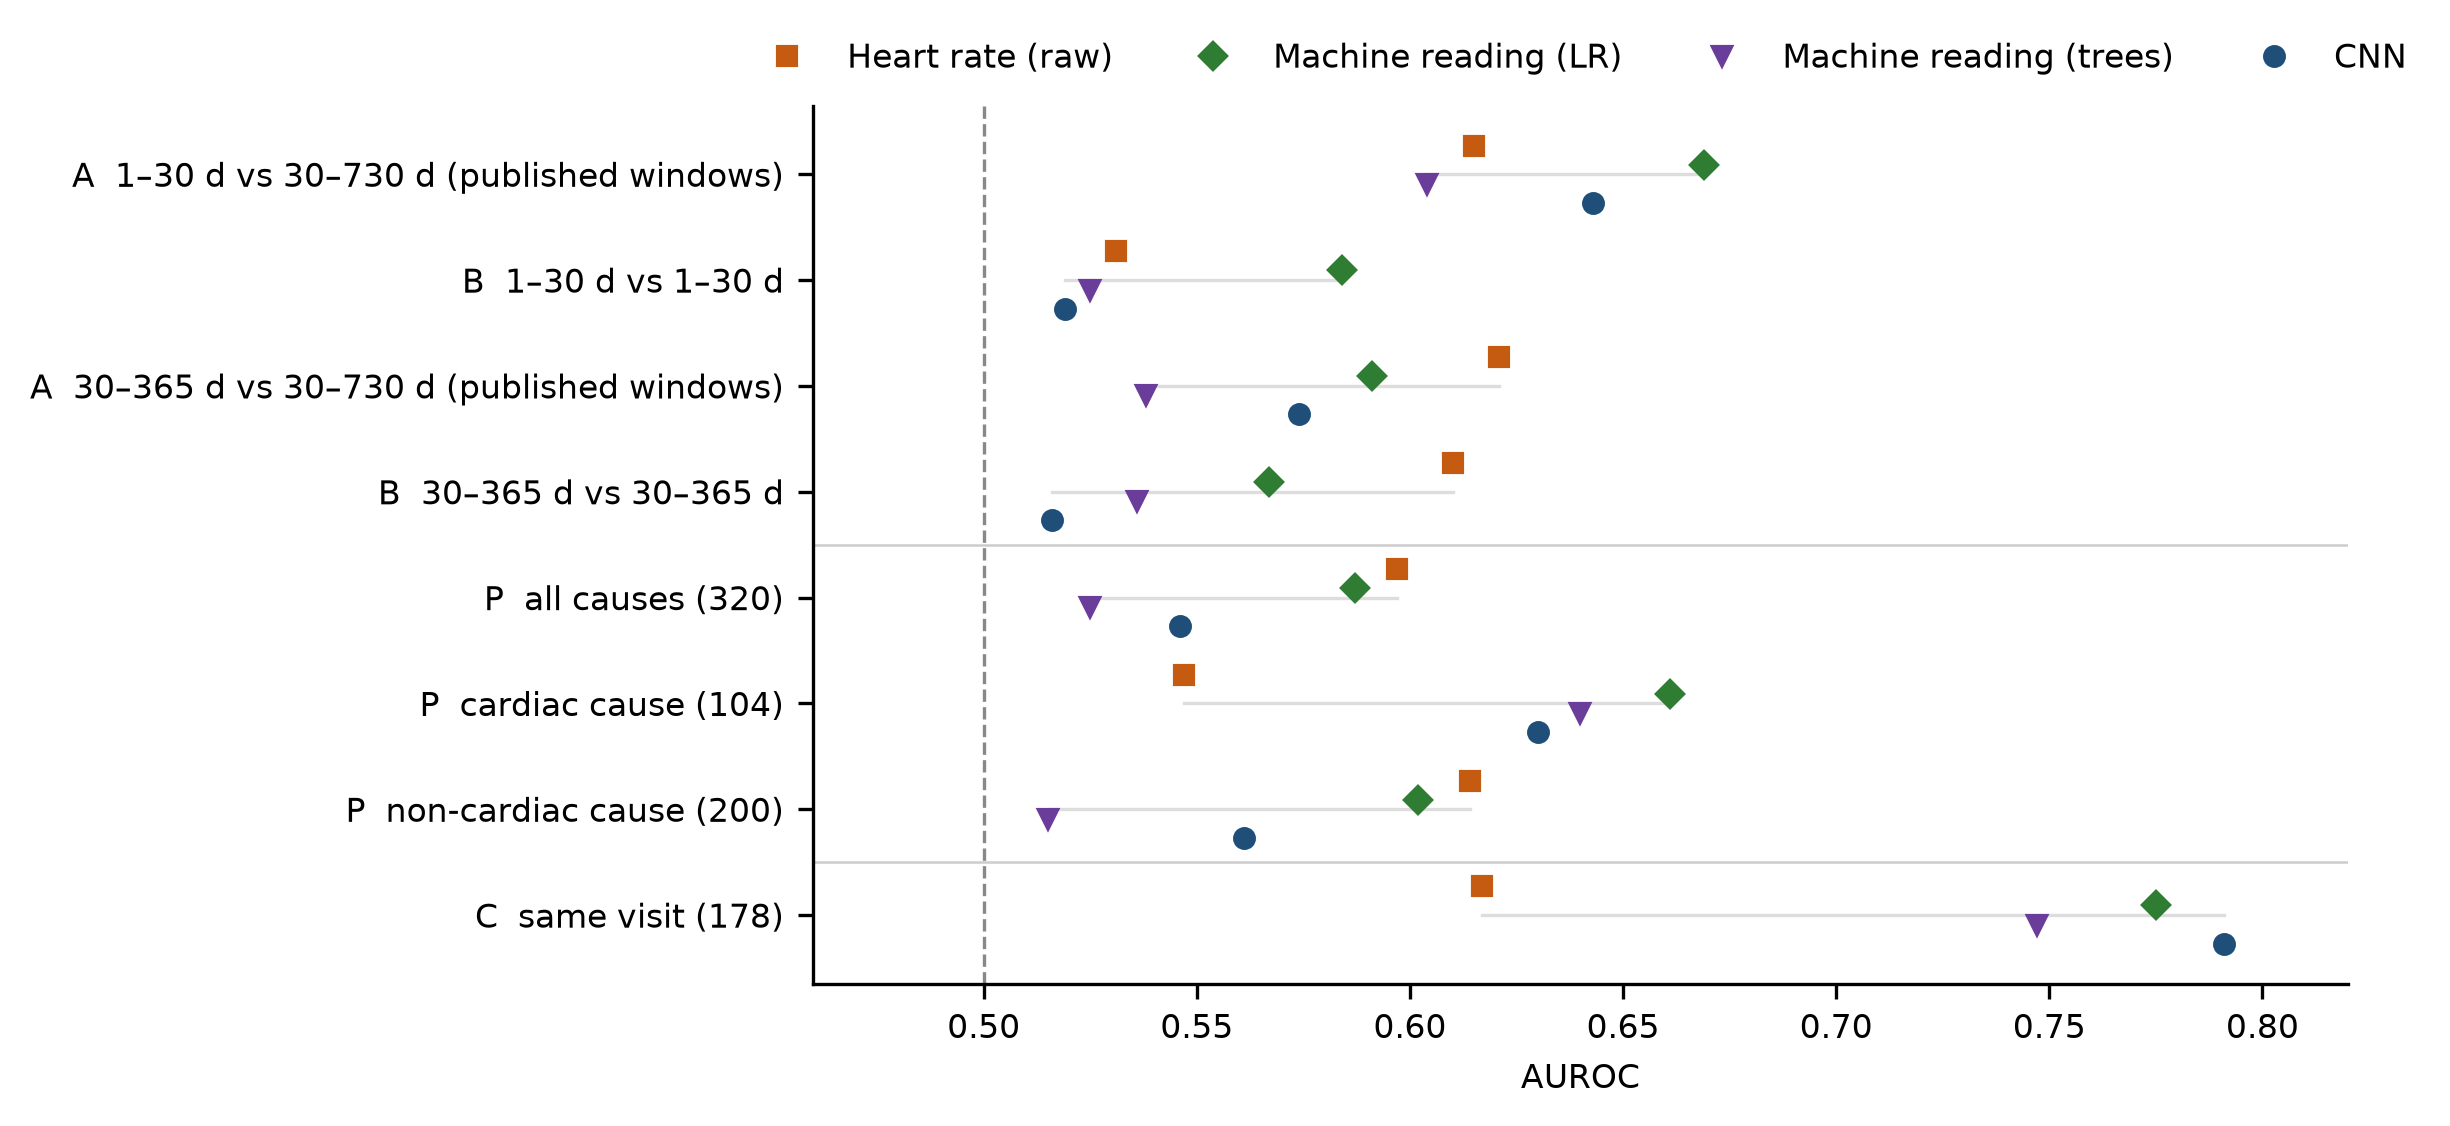
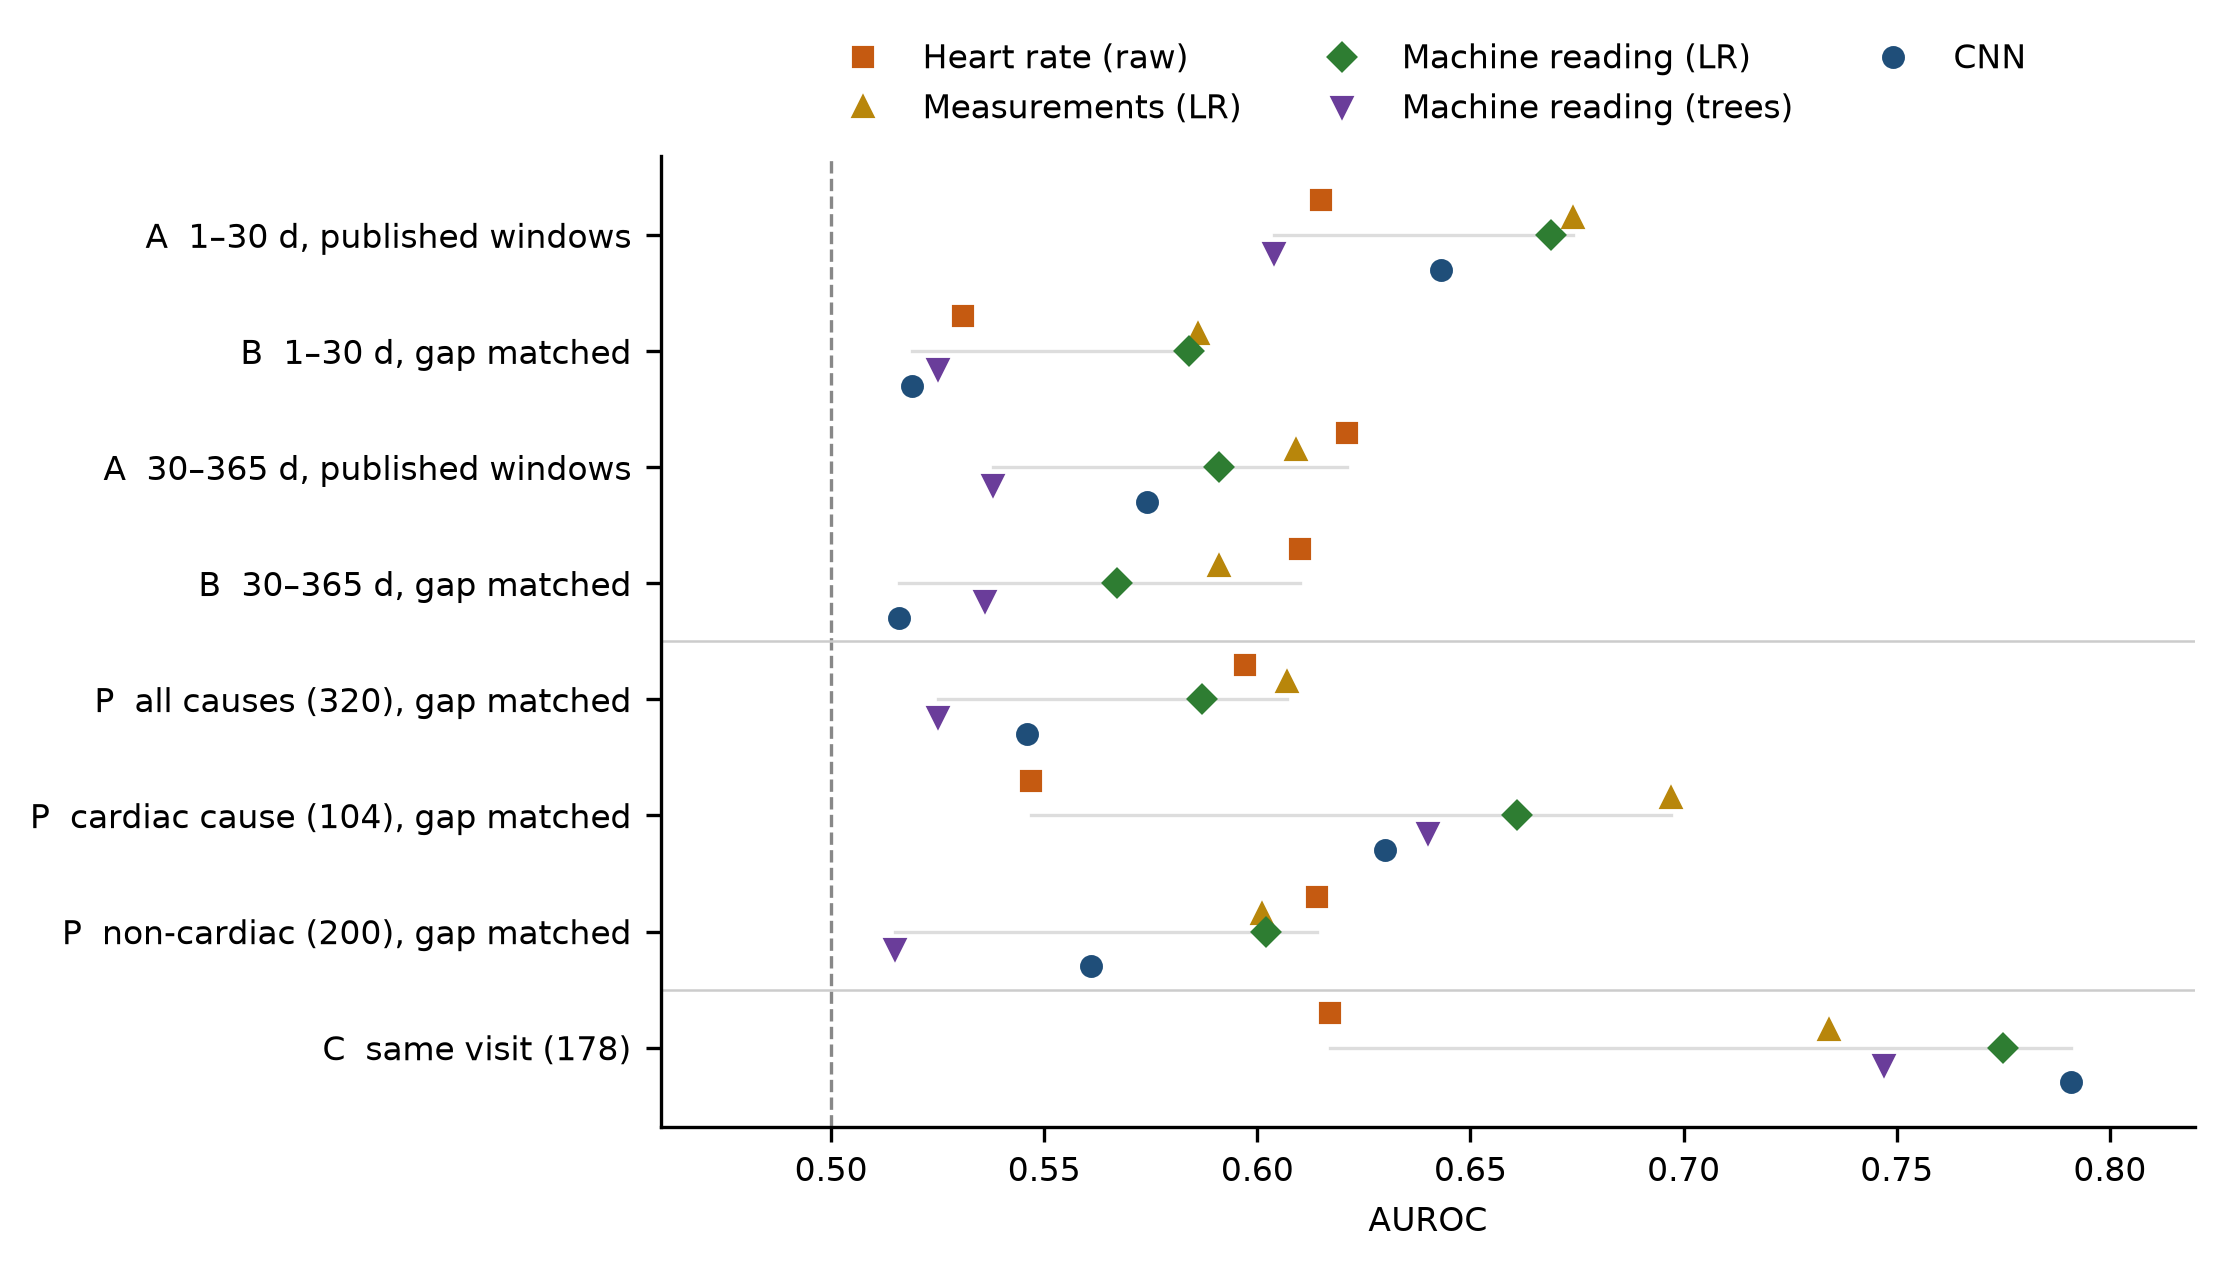
v1.2.1: paired comparator-minus-CNN tests and A/B window contrast; Figure 2 with measurements (LR)

diff --git a/analysis/19_berpasangan.py b/analysis/19_berpasangan.py
@@ -1,0 +1,188 @@
+"""Nightingale arrest-ntuh-ecg — uji berpasangan untuk telaah panel JIKI 28 Oktober 2026
+(Riset/EKG/Telaah/2026-10-28-Arrest-JIKI/report.md).
+
+Keberatan yang diuji:
+  1. "matching cut 1-30 days but not 30-365" bersandar pada satu benih dan dua IK terpisah ->
+     rancangan A/B (pencocokan 04, benih 0-2): selisih A - B per jendela, digabung atas benih, dan
+     kontras langsung (A - B | 1-30) - (A - B | 30-365); laju ventrikel mentah dan pengukuran 12SL (LR);
+     bootstrap pasien, tiap rancangan diambil ulang sendiri.
+  2. judul "heart rate outperforms a CNN" tanpa uji berpasangan -> CNN dilatih ulang (2 ulangan per benih,
+     seperti 13) pada rancangan P semua sebab dan bukan jantung (pencocokan 09/10, set cocokan) dan pada
+     rancangan B (1-30, 30-365; pencocokan 04). Selisih laju - CNN, pengukuran LR - CNN, mesin LR - CNN
+     pada sampel yang sama; tiap tarikan bootstrap mengambil ulang set (P) atau pasien (B) dan memilih
+     satu ulangan latih CNN secara acak, sehingga ragam antarulangan ikut masuk; digabung atas benih.
+
+CPU. Hanya agregat. Pakai: python -u 19_berpasangan.py > berpasangan.log
+"""
+import importlib.util
+import os
+
+import numpy as np
+from sklearn.metrics import roc_auc_score
+from sklearn.model_selection import StratifiedGroupKFold
+
+
+def _muat_modul(nama, berkas):
+    spek = importlib.util.spec_from_file_location(nama, os.path.join(os.path.dirname(__file__), berkas))
+    m = importlib.util.module_from_spec(spek)
+    spek.loader.exec_module(m)
+    return m
+
+
+c02 = _muat_modul('c02', '02_cnn_arrest.py')
+c03 = _muat_modul('c03', '03_cnn_kunjungan.py')
+c04 = _muat_modul('c04', '04_replikasi.py')
+c06 = _muat_modul('c06', '06_revisi.py')
+c09 = _muat_modul('c09', '09_uji_sebab.py')
+c10 = _muat_modul('c10', '10_telaah_lanjut.py')
+BENIH = range(3)
+ULANG_CNN = 2
+N_BOOT = 1000
+rng = np.random.default_rng(20261031)
+c10.rng = rng
+LAJU, UKUR, MESIN = 'laju ventrikel (mentah)', 'pengukuran 12SL (LR)', 'pembacaan mesin (LR)'
+
+
+def laju(S):
+    v = S.ventricular_rate.to_numpy(float)
+    return np.where(np.isnan(v), np.nanmedian(v), v)
+
+
+def pembanding(S, y, g):
+    U = S[c03.UKURAN].to_numpy(float)
+    M = np.column_stack([S[list(c06.BENDERA)].to_numpy(float), U])
+    return {LAJU: laju(S), UKUR: c06.oof_lr_logit(U, y, g), MESIN: c06.oof_lr_logit(M, y, g)}
+
+
+def cnn_ulang(X, y, g):
+    ps = []
+    for b in range(ULANG_CNN):
+        p = np.zeros(len(y))
+        for tr, te in StratifiedGroupKFold(5, shuffle=True, random_state=b).split(np.zeros(len(y)), y, g):
+            p[te] = c02.latih_prediksi(X[tr], y[tr], X[te], b)
+        ps.append(p)
+    return ps
+
+
+def unit(u):
+    us = np.unique(u)
+    return us, {k: np.where(u == k)[0] for k in us}
+
+
+def boot(y, u, f, n=N_BOOT):
+    """f(ix) dihitung pada tiap tarikan unit (set atau pasien) dengan pengembalian."""
+    us, anggota = unit(u)
+    return np.array([f(np.concatenate([anggota[k] for k in rng.choice(us, len(us))])) for _ in range(n)])
+
+
+def beda_cnn(y, u, pa, ps):
+    """AUROC(pa) - AUROC(CNN), CNN = satu ulangan latih acak per tarikan."""
+    def f(ix):
+        pc = ps[rng.integers(len(ps))]
+        return roc_auc_score(y[ix], pa[ix]) - roc_auc_score(y[ix], pc[ix])
+    return boot(y, u, f)
+
+
+def ab_data():
+    D = c04.tandai_kasus(c02.muat())
+    pre = D[D.ecg_timetag.isin(['[0]pre', 'pre'])].reset_index(drop=True)
+    n0 = len(pre)
+    pre = pre.merge(c03.ukuran(), on='ecg_id', how='left').merge(c06.pernyataan(), on='ecg_id', how='left')
+    pre = pre.fillna({b: 0 for b in c06.BENDERA})
+    assert len(pre) == n0
+    kas = pre[pre.y == 1]
+    k = pre[(pre.y == 0) & pre.tahun.isin(c04.SAH)]
+    lama = k[(k.jarak >= 30) & (k.jarak <= 730)]
+    jendela = {'1-30': ((kas.jarak > 1) & (kas.jarak <= 30), k[(k.jarak > 1) & (k.jarak <= 30)]),
+               '30-365': ((kas.jarak > 30) & (kas.jarak <= 365), k[(k.jarak > 30) & (k.jarak <= 365)])}
+    return pre, kas, lama, jendela
+
+
+def susun_ab(pre, kk, calon, b):
+    ix = np.concatenate([kk.index.to_numpy(), c04.cocokkan(kk, calon, b)])
+    S = pre.loc[np.sort(ix)].reset_index(drop=True)
+    S['pid'] = S.patient_ngsci_id.astype(str)
+    return S
+
+
+def bagian_ab(pre, kas, lama, jendela):
+    print('== 1. Rancangan A/B: selisih A - B per jendela dan kontras antarjendela, 3 benih, bootstrap pasien',
+          flush=True)
+    bs = {}
+    for w, (m, sama) in jendela.items():
+        for r, calon in (('A', lama), ('B', sama)):
+            for b in BENIH:
+                S = susun_ab(pre, kas[m], calon, b)
+                y, g = S.y.to_numpy().astype(np.float32), S.pid.to_numpy()
+                for f, p in pembanding(S, y, g).items():
+                    if f == MESIN:
+                        continue
+                    bs.setdefault((w, r, f), []).append(boot(y, g, lambda ix: roc_auc_score(y[ix], p[ix])))
+    for f in (LAJU, UKUR):
+        d = {}
+        for w in jendela:
+            d[w] = np.concatenate([a - b for a, b in zip(bs[(w, 'A', f)], bs[(w, 'B', f)])])
+            print(f'  {f:<26s} {w:<7s} A - B {np.mean(d[w]):+.3f} {c10.ci(d[w])}  P(<=0) {np.mean(d[w] <= 0):.3f}',
+                  flush=True)
+        k = d['1-30'] - d['30-365']
+        print(f'  {f:<26s} (A-B | 1-30) - (A-B | 30-365) {np.mean(k):+.3f} {c10.ci(k)}  P(<=0) '
+              f'{np.mean(k <= 0):.3f}', flush=True)
+
+
+def lapor_cnn(nama, hasil):
+    auc = {k: np.mean(v) for k, v in hasil['auc'].items()}
+    print(f'  {nama:<30s} AUROC: ' + ', '.join(f'{k} {v:.3f}' for k, v in auc.items()), flush=True)
+    for f in (LAJU, UKUR, MESIN):
+        d = np.concatenate(hasil['beda'][f])
+        print(f'  {nama:<30s} {f + " - CNN":<34s} {auc[f] - auc["CNN"]:+.3f} {c10.ci(d)}  P(<=0) '
+              f'{np.mean(d <= 0):.3f}', flush=True)
+
+
+def kumpul(hasil, S, y, u, g):
+    X = c02.sinyal(S)
+    ps = cnn_ulang(X, y, g)
+    del X
+    pb = pembanding(S, y, g)
+    hasil['auc'].setdefault('CNN', []).append(np.mean([roc_auc_score(y, p) for p in ps]))
+    for f, p in pb.items():
+        hasil['auc'].setdefault(f, []).append(roc_auc_score(y, p))
+        hasil['beda'].setdefault(f, []).append(beda_cnn(y, u, p, ps))
+
+
+def bagian_cnn_p():
+    print('\n== 2. Rancangan P: pembanding - CNN berpasangan (bootstrap set + ulangan latih), 3 benih', flush=True)
+    pre, calon, kp, _ = c09.data_p()
+    sebab = kp.cause_of_cardiac_arrest
+    bukan = ((sebab != 'cardiac event') & sebab.notna() & (sebab != 'unknown')).to_numpy()
+    for nama, m in [('P semua sebab', np.ones(len(kp), bool)), ('P bukan jantung (tanpa unknown)', bukan)]:
+        hasil = {'auc': {}, 'beda': {}}
+        for b in BENIH:
+            S = c10.susun(pre, kp[m], calon, b)
+            y, g, s = S.y.to_numpy().astype(np.float32), S.pid.to_numpy(), S.set.to_numpy()
+            kumpul(hasil, S, y, s, g)
+            print(f'  {nama} benih {b} selesai', flush=True)
+        lapor_cnn(nama, hasil)
+
+
+def bagian_cnn_b(pre, kas, jendela):
+    print('\n== 3. Rancangan B: pembanding - CNN berpasangan (bootstrap pasien + ulangan latih), 3 benih',
+          flush=True)
+    for w, (m, sama) in jendela.items():
+        hasil = {'auc': {}, 'beda': {}}
+        for b in BENIH:
+            S = susun_ab(pre, kas[m], sama, b)
+            y, g = S.y.to_numpy().astype(np.float32), S.pid.to_numpy()
+            kumpul(hasil, S, y, g, g)
+            print(f'  B {w} benih {b} selesai', flush=True)
+        lapor_cnn(f'B {w}', hasil)
+
+
+def main():
+    pre, kas, lama, jendela = ab_data()
+    bagian_ab(pre, kas, lama, jendela)
+    bagian_cnn_p()
+    bagian_cnn_b(pre, kas, jendela)
+
+
+if __name__ == '__main__':
+    main()

diff --git a/analysis/08_gambar.py b/analysis/08_gambar.py
@@ -139,26 +139,28 @@ def gambar2():
 
 
 # Versi JIKI (28 Okt 2026): titik saja, tanpa garis IK (IK tiap model berasal dari skrip berbeda).
-# (label, laju jantung, mesin LR, mesin pohon, CNN). A, B: rancangan_ab_lr.log dan replikasi*.log;
-# P: ci_pembanding.log, mesin_lr.log, telaah_jiki.log; C: rancangan_c_lr.log (mesin dengan usia/jk).
+# (label, laju jantung, pengukuran LR, mesin LR, mesin pohon, CNN). A, B: rancangan_ab_lr.log dan
+# replikasi*.log; P: ci_pembanding.log, mesin_lr.log, telaah_jiki.log; C: rancangan_c_lr.log (mesin dengan
+# usia/jk). Telaah 28 Okt: pengukuran LR ditambah, baris berjarak sama ditandai.
 BARIS_JIKI = [
-    ('A  1–30 d vs 30–730 d (published windows)', 0.615, 0.669, 0.604, 0.643),
-    ('B  1–30 d vs 1–30 d', 0.531, 0.584, 0.525, 0.519),
-    ('A  30–365 d vs 30–730 d (published windows)', 0.621, 0.591, 0.538, 0.574),
-    ('B  30–365 d vs 30–365 d', 0.610, 0.567, 0.536, 0.516),
-    ('P  all causes (320)', 0.597, 0.587, 0.525, 0.546),
-    ('P  cardiac cause (104)', 0.547, 0.661, 0.640, 0.630),
-    ('P  non-cardiac cause (200)', 0.614, 0.602, 0.515, 0.561),
-    ('C  same visit (178)', 0.617, 0.775, 0.747, 0.791),
+    ('A  1–30 d, published windows', 0.615, 0.674, 0.669, 0.604, 0.643),
+    ('B  1–30 d, gap matched', 0.531, 0.586, 0.584, 0.525, 0.519),
+    ('A  30–365 d, published windows', 0.621, 0.609, 0.591, 0.538, 0.574),
+    ('B  30–365 d, gap matched', 0.610, 0.591, 0.567, 0.536, 0.516),
+    ('P  all causes (320), gap matched', 0.597, 0.607, 0.587, 0.525, 0.546),
+    ('P  cardiac cause (104), gap matched', 0.547, 0.697, 0.661, 0.640, 0.630),
+    ('P  non-cardiac (200), gap matched', 0.614, 0.601, 0.602, 0.515, 0.561),
+    ('C  same visit (178)', 0.617, 0.734, 0.775, 0.747, 0.791),
 ]
 UNGU = '#6a3d9a'
 
 
 def gambar2_jiki():
-    fig, ax = plt.subplots(figsize=(6.6, 3.8))
+    fig, ax = plt.subplots(figsize=(6.6, 4.2))
     n = len(BARIS_JIKI)
-    gaya = [('Heart rate (raw)', JINGGA, 's', 0.27), ('Machine reading (LR)', HIJAU, 'D', 0.09),
-            ('Machine reading (trees)', UNGU, 'v', -0.09), ('CNN', BIRU, 'o', -0.27)]
+    gaya = [('Heart rate (raw)', JINGGA, 's', 0.30), ('Measurements (LR)', '#b8860b', '^', 0.15),
+            ('Machine reading (LR)', HIJAU, 'D', 0.0), ('Machine reading (trees)', UNGU, 'v', -0.15),
+            ('CNN', BIRU, 'o', -0.30)]
     for i, (lab, *nilai) in enumerate(BARIS_JIKI):
         yy = n - 1 - i
         ax.plot([min(nilai), max(nilai)], [yy, yy], color='#dddddd', lw=0.8, zorder=1)
@@ -172,7 +174,7 @@ def gambar2_jiki():
     ax.set_yticklabels([b[0] for b in BARIS_JIKI][::-1])
     ax.set_xlim(0.46, 0.82)
     ax.set_xlabel('AUROC')
-    ax.legend(loc='lower center', bbox_to_anchor=(0.5, 1.0), ncol=4, frameon=False)
+    ax.legend(loc='lower center', bbox_to_anchor=(0.5, 1.0), ncol=3, frameon=False)
     for s in ('top', 'right'):
         ax.spines[s].set_visible(False)
     for eks in ('png', 'pdf'):

diff --git a/README.md b/README.md
@@ -48,6 +48,7 @@ Comments and log text are in Indonesian; variable names follow the manuscript's 
 | `16_rancangan_ab_lr.py` | `rancangan_ab_lr.log` | Designs A and B with heart rate and machine reading (Table 1) |
 | `17_ci_pembanding.py` | `ci_pembanding.log` | Confidence intervals and 1,000-permutation null for heart rate and measurements; A − B differences (Sections 4.2–4.3, Table 2) |
 | `18_rancangan_c_lr.py` | `rancangan_c_lr.log` | Design C with heart rate and LR comparators, paired differences (Section 4.6, Table 3) |
+| `19_berpasangan.py` | `berpasangan.log` (added in the next release; the CNN part is still running) | Version 1.2.1. Designs A/B: A − B per window and the contrast between windows over three seeds; designs P and B: heart rate, measurements (LR), and machine reading (LR) minus the CNN, paired, resampling matched sets or patients and CNN training runs |
 
 Section and table numbers for scripts 13–18 refer to the current manuscript (version 1.2.0 of this
 repository); those for scripts 01–12 refer to the earlier version (1.1.0), whose Tables 1–2 and design
